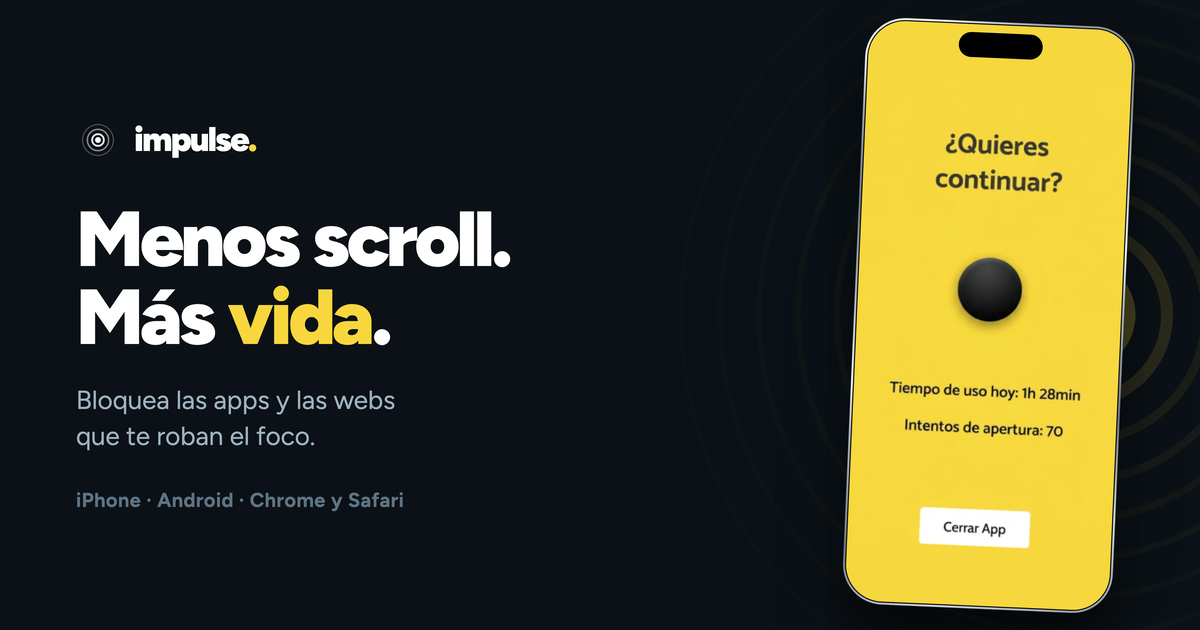
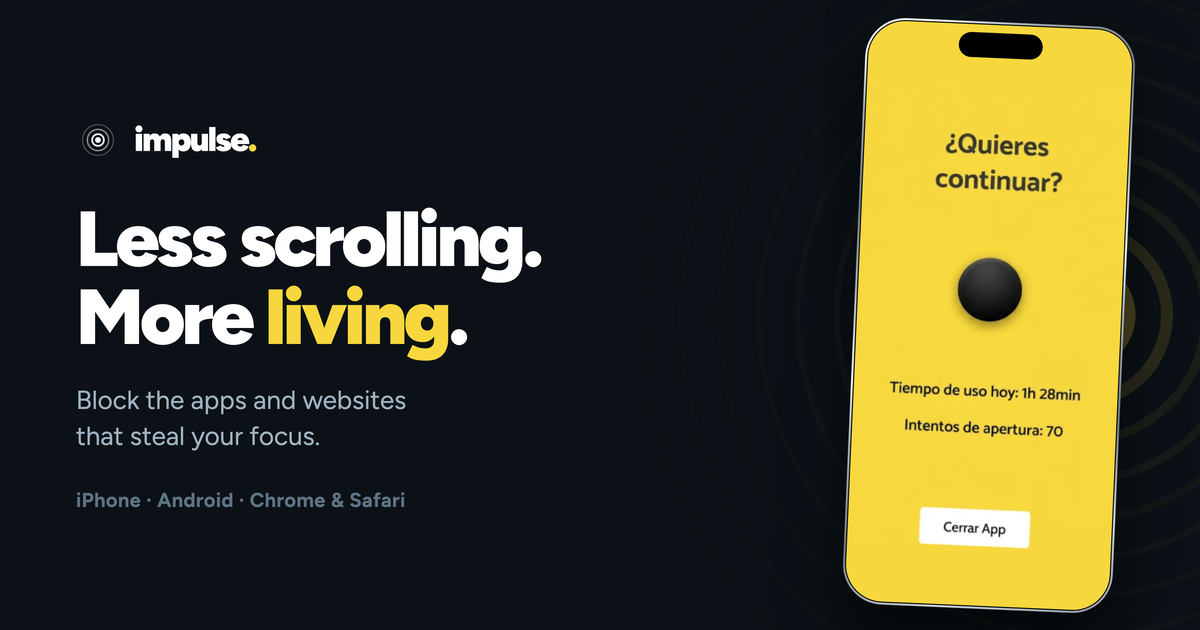
feat(i18n): inglés por defecto y slug localizado del desbloqueo físico
`/` vuelve a ser inglés y el español pasa a `/es`.

Es lo que hace la categoría: Opal y Jomo publican en inglés con el francés
—no el español— como segundo idioma, y Brick es solo inglés. unrespiro sirve
español pero declara lang="en", que es un bug suyo, no un patrón a seguir.

Y sobre todo elimina el riesgo que traía el commit anterior. `/` ya servía
inglés antes de todo esto, así que ahora se queda exactamente como está
indexada: no hay cambio de idioma en la URL con autoridad, no hay periodo de
consolidación y no hay caída que esperar.

- x-default pasa a apuntar a `/`, el inglés.
- La página del Disc estrena slug por idioma: /physical-unlock y
  /es/desbloqueo-fisico. next-intl redirige los cruces (/desbloqueo-fisico va
  a /physical-unlock y /es/physical-unlock a /es/desbloqueo-fisico), así que
  ningún enlace del rediseño anterior se queda huérfano.
- Imagen OpenGraph regenerada en inglés.
- llms.txt y llms-full.txt reflejan qué idioma vive en la raíz y publican los
  dos slugs de la página de desbloqueo físico.

La URL de Google Play queda confirmada por el PM:
https://play.google.com/store/apps/details?id=com.impulse.es

Verificado: `/` inglés y `/es` español con su `<html lang>`, `/en` redirige a
`/`, hreflang recíproco con x-default en las tres rutas indexables, y las 6 URL
del sitemap siguen siendo autocanónicas.

diff --git a/src/i18n/routing.ts b/src/i18n/routing.ts
@@ -1,23 +1,25 @@
 import { defineRouting } from "next-intl/routing";
 
 export const routing = defineRouting({
-  locales: ["es", "en"],
-  defaultLocale: "es",
+  locales: ["en", "es"],
+  defaultLocale: "en",
 
   /**
-   * "as-needed" keeps Spanish at the bare path: `/` is Spanish, `/en` is
-   * English. That also means the five already-indexed URLs (`/`, `/onboarding`,
-   * `/uninstall`, `/delete-account`, `/privacy`) keep resolving exactly as they
-   * do today, so this migration needs no redirects at all.
+   * "as-needed" keeps the default locale at the bare path: `/` is English,
+   * `/es` is Spanish. English is the default because that is what the category
+   * does — Opal and Jomo both ship English first with French as the second
+   * locale, and Brick is English only. It also means `/` keeps serving exactly
+   * the language it already served, so the already-indexed URLs need no
+   * redirects and lose no authority.
    */
   localePrefix: "as-needed",
 
   /**
-   * Off on purpose. With detection on, anyone whose browser asks for English —
-   * Googlebot included, which sends `accept-language: en-US` or nothing —
-   * gets redirected off `/`, the one URL carrying all of the site's authority.
-   * Locale is chosen explicitly through the switcher instead, and the
-   * NEXT_LOCALE cookie still remembers it within a session.
+   * Off on purpose. With detection on, a Spanish-speaking visitor — or any
+   * crawler sending a Spanish Accept-Language — gets bounced off `/`, the one
+   * URL carrying the site's authority, into a redirect. Locale is chosen
+   * explicitly through the switcher, and the NEXT_LOCALE cookie still
+   * remembers the choice within a session.
    */
   localeDetection: false,
 
@@ -28,6 +30,23 @@ export const routing = defineRouting({
    * yourself; the metadata one is visible and auditable, so it wins.
    */
   alternateLinks: false,
+
+  /**
+   * The physical-unlock page gets a localised slug. Everything else keeps one
+   * path across locales: the legal pages are English-only documents, and
+   * renaming an already-indexed URL would cost a redirect for no gain.
+   */
+  pathnames: {
+    "/": "/",
+    "/physical-unlock": {
+      en: "/physical-unlock",
+      es: "/desbloqueo-fisico",
+    },
+    "/privacy": "/privacy",
+    "/delete-account": "/delete-account",
+    "/onboarding": "/onboarding",
+    "/uninstall": "/uninstall",
+  },
 });
 
 export type Locale = (typeof routing.locales)[number];

diff --git a/src/app/[locale]/physical-unlock/page.tsx b/src/app/[locale]/physical-unlock/page.tsx
@@ -8,8 +8,10 @@ import { PhysicalHowItWorks } from "@/components/disc/PhysicalHowItWorks";
 import { ComparisonTable } from "@/components/disc/ComparisonTable";
 import { GetTheDisc } from "@/components/disc/GetTheDisc";
 import { SITE_URL } from "@/lib/links";
+import { getPathname } from "@/i18n/navigation";
+import { routing } from "@/i18n/routing";
 
-const PATH = "/desbloqueo-fisico";
+const HREF = "/physical-unlock" as const;
 
 export async function generateMetadata({
   params,
@@ -18,18 +20,19 @@ export async function generateMetadata({
 }): Promise<Metadata> {
   const { locale } = await params;
   const t = await getTranslations({ locale, namespace: "meta.disc" });
-  const canonical =
-    locale === "es" ? `${SITE_URL}${PATH}` : `${SITE_URL}/en${PATH}`;
+
+  const url = (l: (typeof routing.locales)[number]) =>
+    `${SITE_URL}${getPathname({ href: HREF, locale: l })}`;
 
   return {
     title: t("title"),
     description: t("description"),
     alternates: {
-      canonical,
+      canonical: url(locale as (typeof routing.locales)[number]),
       languages: {
-        es: `${SITE_URL}${PATH}`,
-        en: `${SITE_URL}/en${PATH}`,
-        "x-default": `${SITE_URL}${PATH}`,
+        en: url("en"),
+        es: url("es"),
+        "x-default": url(routing.defaultLocale),
       },
     },
   };

diff --git a/src/app/[locale]/layout.tsx b/src/app/[locale]/layout.tsx
@@ -87,12 +87,12 @@ export async function generateMetadata({
     title: t("title"),
     description: t("description"),
     alternates: {
-      canonical: locale === "es" ? SITE_URL : `${SITE_URL}/en`,
+      canonical: locale === routing.defaultLocale ? SITE_URL : `${SITE_URL}/${locale}`,
       languages: {
-        es: SITE_URL,
-        en: `${SITE_URL}/en`,
-        // x-default points at Spanish: it is the market with actual traction
-        // and the URL that already holds the ranking.
+        en: SITE_URL,
+        es: `${SITE_URL}/es`,
+        // x-default is English: the default locale, and the URL that already
+        // holds the ranking.
         "x-default": SITE_URL,
       },
     },
@@ -105,7 +105,7 @@ export async function generateMetadata({
       ...BASE_METADATA.openGraph,
       title: t("title"),
       description: t("description"),
-      url: locale === "es" ? SITE_URL : `${SITE_URL}/en`,
+      url: locale === routing.defaultLocale ? SITE_URL : `${SITE_URL}/${locale}`,
       locale: locale === "es" ? "es_ES" : "en_US",
       alternateLocale: locale === "es" ? "en_US" : "es_ES",
     },

diff --git a/src/lib/schema.ts b/src/lib/schema.ts
@@ -11,7 +11,7 @@ import type { FaqItem } from "@/components/landing/FAQ";
  */
 
 export function siteSchema(locale: string) {
-  const home = locale === "es" ? SITE_URL : `${SITE_URL}/${locale}`;
+  const home = locale === "en" ? SITE_URL : `${SITE_URL}/${locale}`;
   return {
     "@context": "https://schema.org",
     "@graph": [
@@ -50,7 +50,7 @@ export async function homeSchema(locale: string) {
         "@type": "SoftwareApplication",
         name: "Impulse",
         description: tMeta("description"),
-        url: locale === "es" ? SITE_URL : `${SITE_URL}/${locale}`,
+        url: locale === "en" ? SITE_URL : `${SITE_URL}/${locale}`,
         applicationCategory: "ProductivityApplication",
         // Android was missing entirely, on a site that also had no link to it.
         operatingSystem: "iOS, Android, Chrome, Safari",

diff --git a/src/app/sitemap.ts b/src/app/sitemap.ts
@@ -3,7 +3,7 @@ import { getPathname } from "@/i18n/navigation";
 import { routing } from "@/i18n/routing";
 import { SITE_URL } from "@/lib/links";
 
-type Href = "/" | "/desbloqueo-fisico" | "/delete-account" | "/privacy";
+type Href = "/" | "/physical-unlock" | "/delete-account" | "/privacy";
 
 type Entry = {
   href: Href;
@@ -23,7 +23,7 @@ type Entry = {
 const ROUTES: Entry[] = [
   { href: "/", priority: 1, changeFrequency: "weekly", localized: true },
   {
-    href: "/desbloqueo-fisico",
+    href: "/physical-unlock",
     priority: 0.7,
     changeFrequency: "monthly",
     localized: true,

diff --git a/src/components/landing/Strictness.tsx b/src/components/landing/Strictness.tsx
@@ -100,7 +100,7 @@ export function Strictness() {
 
                 {isPhysical && (
                   <Link
-                    href="/desbloqueo-fisico"
+                    href="/physical-unlock"
                     className="mt-3.5 inline-flex items-center gap-1.5 rounded text-[14.5px] font-extrabold text-yellow hover:underline focus-visible:outline-none focus-visible:ring-2 focus-visible:ring-yellow"
                   >
                     {t("discLink")}

diff --git a/src/components/landing/Bridge.tsx b/src/components/landing/Bridge.tsx
@@ -52,7 +52,7 @@ export function Bridge() {
             <CtaButton variant="yellow" href={LINKS.chrome}>
               {t("ctaChrome")}
             </CtaButton>
-            <CtaButton variant="onDark" href="/desbloqueo-fisico">
+            <CtaButton variant="onDark" href="/physical-unlock">
               {t("ctaNfc")}
             </CtaButton>
           </div>

diff --git a/src/components/landing/Footer.tsx b/src/components/landing/Footer.tsx
@@ -33,7 +33,7 @@ export function Footer() {
             {t("privacy")}
           </Link>
           <Link
-            href="/desbloqueo-fisico"
+            href="/physical-unlock"
             className="rounded text-on-dark-mid hover:text-on-dark focus-visible:outline-none focus-visible:ring-2 focus-visible:ring-yellow"
           >
             {t("disc")}
